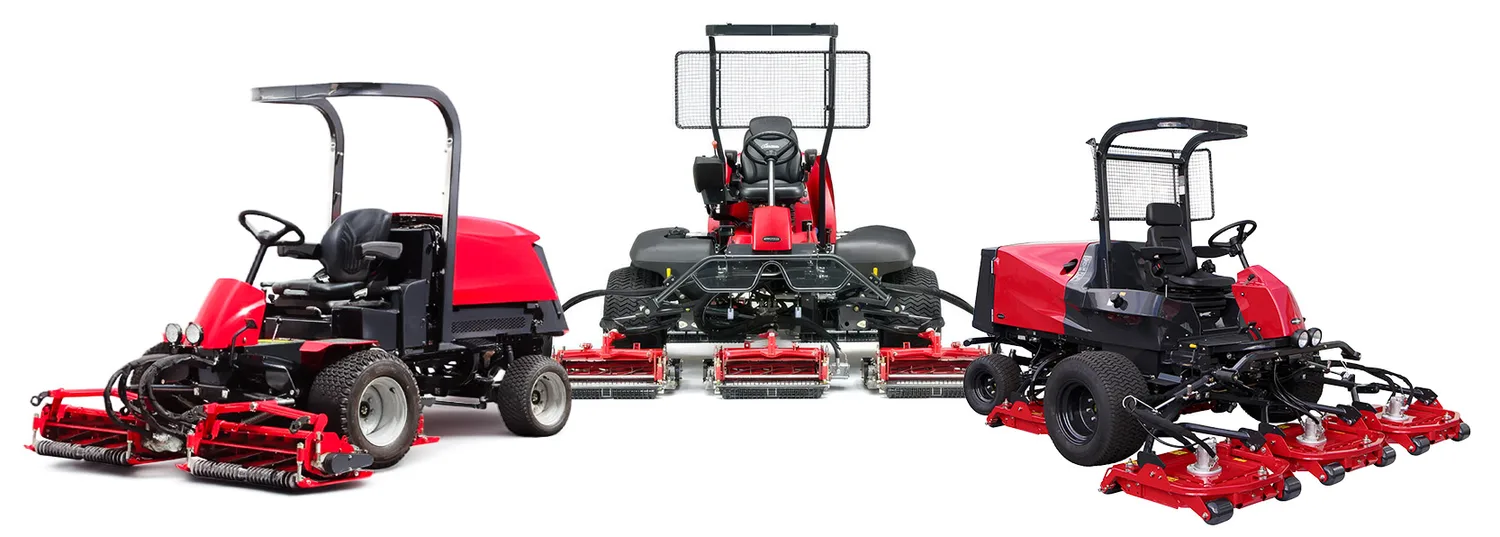
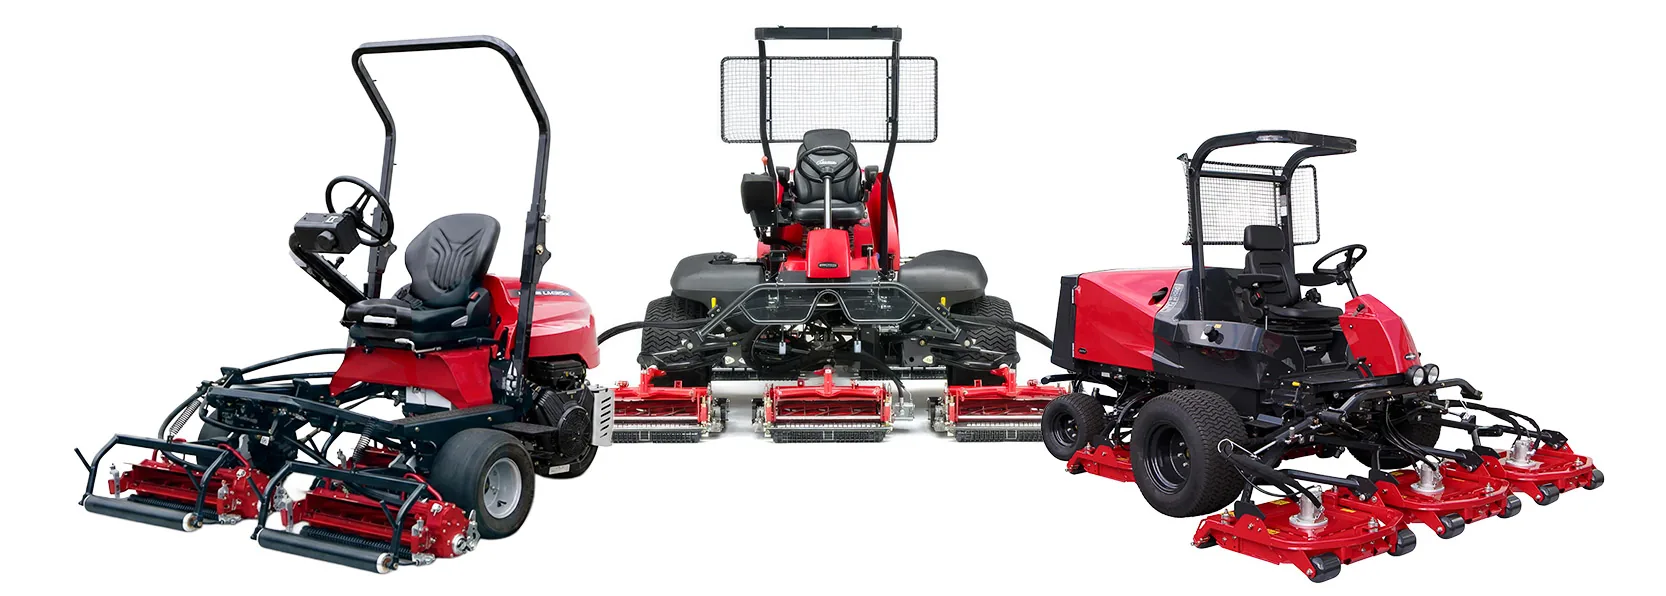
updating site - John's edits

diff --git a/index.html b/index.html
@@ -163,7 +163,6 @@
     text-transform: uppercase; letter-spacing: 0.2em; margin-bottom: 2rem;
     opacity: 0; animation: fadeUp 0.8s 0.3s forwards;
   }
-  .hero-tag::before { content: ''; width: 24px; height: 1px; background: var(--gold-accent); }
   .hero-headline {
     font-size: clamp(3rem, 7vw, 6.5rem); color: white; max-width: 900px;
     margin-bottom: 1.5rem; opacity: 0; animation: fadeUp 0.8s 0.5s forwards;
@@ -171,7 +170,7 @@
   .hero-headline em { font-style: normal; color: var(--baroness-red); }
   .hero-sub {
     font-size: clamp(1rem, 2vw, 1.25rem); color: #ffffff;
-    max-width: 580px; line-height: 1.7; margin-bottom: 3rem; font-weight: 300;
+    max-width: 660px; line-height: 1.7; margin-bottom: 3rem; font-weight: 300;
     opacity: 0; animation: fadeUp 0.8s 0.7s forwards;
   }
   .hero-actions { display: flex; gap: 1rem; flex-wrap: wrap; opacity: 0; animation: fadeUp 0.8s 0.9s forwards; }
@@ -486,7 +485,7 @@
     .verticals-grid { grid-template-columns: 1fr !important; gap: 1.5rem !important; }
     .value-grid { gap: 1rem; }
     .hero { min-height: auto; padding-bottom: 3rem; }
-    .hero-stats-inner { flex-direction: column; gap: 1.25rem; align-items: center; }
+    .hero-stats-inner { flex-direction: column; gap: 1.25rem; align-items: flex-start; }
     .hero-stats-bar { padding: 2.25rem 2rem; }
     .form-row { grid-template-columns: 1fr; }
     .territory-list { flex-direction: column; align-items: center; gap: 1rem; }
@@ -556,10 +555,10 @@
   <div class="hero-grain"></div>
   <div class="hero-stripes"></div>
   <div class="hero-content">
-    <div class="hero-tag">Exclusive Baroness Distributor</div>
+    <div class="hero-tag">Exclusive Baroness Distributor — Southern California &amp; Las Vegas</div>
     <h1 class="hero-headline">The Cut Speaks<br>For <em>Itself.</em></h1>
     <p class="hero-sub">
-      Championship Baroness reels that make members notice — and you don't have to wait 18 months or overpay $25K to get them. We deliver in weeks, save you thousands, and train your mechanic personally.
+      Superior Baroness reels that make golfers notice — and you don't have to wait months or overpay thousands to get them. We deliver in weeks, save you money, and train your mechanic personally.
     </p>
     <div class="hero-actions">
       <a href="#contact" class="btn btn-primary">Schedule a Demo →</a>
@@ -601,7 +600,7 @@
         <h3 class="text-red">The Status Quo</h3>
         <div class="problem-item">
           <div class="problem-icon red">✕</div>
-          <p><strong>12–18 month delivery waits</strong> — the top competitor quotes over a year while your fairways deteriorate and members complain.</p>
+          <p><strong>12–18 month delivery waits</strong> — the top competitor quotes over a year while your turf conditions deteriorate and golfers complain.</p>
         </div>
         <div class="problem-item">
           <div class="problem-icon red">✕</div>
@@ -641,7 +640,7 @@
 
 <!-- PRODUCT BAND -->
 <section class="mower-band">
-  <img src="assets/img/mower-hero.webp" alt="Baroness greens, fairway, and rough mowers side by side" loading="lazy">
+  <img src="assets/img/mower-hero.webp" alt="Baroness LM315 greens mower, fairway, and rough mowers side by side" loading="lazy">
 </section>
 
 <!-- VALUE PROPOSITIONS -->
@@ -655,7 +654,7 @@
     <div class="value-card">
       <div class="value-card-num">01</div>
       <h4>Superior Cut Quality</h4>
-      <p>Handmade reels forged with Japanese precision steel. Longer edge retention, cleaner cut. Members notice the difference within days — often asking what changed after the first week.</p>
+      <p>Handmade reels forged with Japanese precision steel. Longer edge retention, cleaner cut. Golfers notice the difference within days — often asking what changed after the first week.</p>
     </div>
     <div class="value-card">
       <div class="value-card-num">02</div>
@@ -713,7 +712,7 @@
   <div class="outcome-grid reveal">
     <div class="outcome-content">
       <h2>A Better Mower Means <em>Better Grass</em>.<br>Better Grass Means <em>Better Golf</em>.<br>Better Golf Means <em>Happy Golfers</em>.</h2>
-      <p>Your members will notice the difference and thank you for investing in the course — while your board members will thank you for saving money.</p>
+      <p>Your golfers will notice the difference and thank you for investing in the course — while your board members will thank you for saving money.</p>
     </div>
     <div class="outcome-visual">
       <img src="assets/img/golfer-mower.webp" alt="Golfer mid-swing beside a Baroness fairway mower" loading="lazy">
@@ -768,7 +767,7 @@
           <div class="team-info">
             <h4>John Harkness</h4>
             <div class="team-role">Founder & Sales</div>
-            <p>40+ years in the turf industry. Knows every superintendent by name. Answers the phone on the second ring.</p>
+            <p>40+ years in the turf industry, including 25+ years as a superintendent at both public and private clubs — he understands the demands put on supers for quality course conditions. Answers the phone on the second ring.</p>
           </div>
         </div>
         <div class="team-card">
@@ -776,7 +775,7 @@
           <div class="team-info">
             <h4>Lionel Guzman</h4>
             <div class="team-role">Service & Training</div>
-            <p>Former mechanic and service manager at the top competitor's distributor. Spends 2–3 hours training your team on every delivery — mechanic to mechanic.</p>
+            <p>Former superintendent who owned his own aerification company and served as mechanic at a top Southern California private club. Spends 2–3 hours training your team on every delivery — mechanic to mechanic.</p>
           </div>
         </div>
       </div>
@@ -799,7 +798,7 @@
 <path d="M47.9,22.7 L303,22.7 L664.2,22.7 L664.2,400.4 L966.7,400.4 L966.7,828.7 L844.2,828.7 L617.6,741.1 L477,738 L465.5,672.3 L400.6,646.6 L347.3,606.6 L274.5,593 L264.2,583.2 L189.1,452.5 L156.4,341.4 L121.2,302.2 L77.6,256.1 L54.5,166.2 L35.8,140.5 L50.9,87.6 L47.9,22.7 Z" fill="#2b2f33" stroke="#474d54" stroke-width="1.4" stroke-linejoin="round"/>
 <path d="M303,22.7 L303,249.3 L628.5,551.4" fill="none" stroke="#3a4046" stroke-width="1.1"/><path d="M628.5,551.4 L628.5,551.4 L628.5,561.3 L638.2,573.4 L658.2,604.3 L651.5,614.1 L636.4,661 L635.2,700.3 L623,724.4" fill="none" stroke="#3a4046" stroke-width="1.1"/><path d="M628.5,551.4 L664.2,461.6 L664.2,400.4 L966.7,400.4" fill="none" stroke="#3a4046" stroke-width="1.1"/>
 <text x="321.2" y="362.6" text-anchor="middle" font-family="'Oswald',sans-serif" font-size="16" letter-spacing="2" fill="#ffffff" opacity="0.16">CALIFORNIA</text><text x="521.2" y="294.6" text-anchor="middle" font-family="'Oswald',sans-serif" font-size="16" letter-spacing="2" fill="#ffffff" opacity="0.16">NEVADA</text><text x="775.8" y="642.1" text-anchor="middle" font-family="'Oswald',sans-serif" font-size="16" letter-spacing="2" fill="#ffffff" opacity="0.16">ARIZONA</text>
-<g><circle class="dot" data-name="Alisal Guest Ranch and Resort" cx="292.7" cy="578" r="3.6" fill="#C41E2A"/><circle class="dot" data-name="Anaheim Hills Golf Course" cx="437.2" cy="638" r="3.6" fill="#C41E2A"/><circle class="dot" data-name="Arizona Country Club" cx="788.6" cy="665.1" r="3.6" fill="#C41E2A"/><circle class="dot" data-name="Arroyo Trabuco Golf Club" cx="445.9" cy="656.1" r="3.6" fill="#C41E2A"/><circle class="dot" data-name="Aviara Golf Club" cx="467" cy="694.4" r="3.6" fill="#C41E2A"/><circle class="dot" data-name="Balboa Park Golf Course" cx="470.3" cy="717.9" r="3.6" fill="#C41E2A"/><circle class="dot" data-name="Bear Creek Golf Club" cx="468.3" cy="660" r="3.6" fill="#C41E2A"/><circle class="dot" data-name="Bear Valley Springs Association" cx="397" cy="541.5" r="3.6" fill="#C41E2A"/><circle class="dot" data-name="Bermuda Dunes Country Club" cx="529.2" cy="645.6" r="3.6" fill="#C41E2A"/><circle class="dot" data-name="Big Canyon Country Club" cx="432.2" cy="655" r="3.6" fill="#C41E2A"/><circle class="dot" data-name="Bishop Country Club" cx="399.7" cy="362.5" r="3.6" fill="#C41E2A"/><circle class="dot" data-name="Calabasas Country Club" cx="384" cy="616.3" r="3.6" fill="#C41E2A"/><circle class="dot" data-name="California Baptist University " cx="468.3" cy="660" r="3.6" fill="#C41E2A"/><circle class="dot" data-name="California State University Fullerton" cx="430.5" cy="636.3" r="3.6" fill="#C41E2A"/><circle class="dot" data-name="Canyon Crest Country Club" cx="462.1" cy="631.1" r="3.6" fill="#C41E2A"/><circle class="dot" data-name="Canyon Lake Golf &amp; Country Club" cx="468.3" cy="660" r="3.6" fill="#C41E2A"/><circle class="dot" data-name="Cathedral Canyon Golf Club" cx="517.2" cy="641.4" r="3.6" fill="#C41E2A"/><circle class="dot" data-name="City of Carson" cx="408" cy="640.4" r="3.6" fill="#C41E2A"/><circle class="dot" data-name="Coyote Springs Golf Club" cx="627.2" cy="423.7" r="3.6" fill="#C41E2A"/><circle class="dot" data-name="Desert Falls Country Club" cx="524.9" cy="644.8" r="3.6" fill="#C41E2A"/><circle class="dot" data-name="Dove Canyon Country Club" cx="449.1" cy="652.5" r="3.6" fill="#C41E2A"/><circle class="dot" data-name="Eagle Glen Golf Club " cx="456.1" cy="645.6" r="3.6" fill="#C41E2A"/><circle class="dot" data-name="El Camino Country Club" cx="467.7" cy="687.7" r="3.6" fill="#C41E2A"/><circle class="dot" data-name="El Niguel Country Club" cx="441.9" cy="663.7" r="3.6" fill="#C41E2A"/><circle class="dot" data-name="Encinitas Ranch Golf Course" cx="468.6" cy="698.5" r="3.6" fill="#C41E2A"/><circle class="dot" data-name="Friendly Hills Country Club" cx="422.1" cy="631.4" r="3.6" fill="#C41E2A"/><circle class="dot" data-name="Glen Ivy Golf Club" cx="480.7" cy="702" r="3.6" fill="#C41E2A"/><circle class="dot" data-name="Glendora Country Club " cx="433.7" cy="615.4" r="3.6" fill="#C41E2A"/><circle class="dot" data-name="Goose Creek Golf Club" cx="453.1" cy="627.5" r="3.6" fill="#C41E2A"/><circle class="dot" data-name="Date Palm Country Club" cx="517.2" cy="641.4" r="3.6" fill="#C41E2A"/><circle class="dot" data-name="Reflection Bay" cx="608.4" cy="466.4" r="3.6" fill="#C41E2A"/><circle class="dot" data-name="Industry Hills Golf Club" cx="428" cy="624.8" r="3.6" fill="#C41E2A"/><circle class="dot" data-name="Las Posas Country Club" cx="360.8" cy="609.5" r="3.6" fill="#C41E2A"/><circle class="dot" data-name="Links at  Riverlakes Ranch Golf Course" cx="356.3" cy="521.7" r="3.6" fill="#C41E2A"/><circle class="dot" data-name="Los Amigos Golf Course" cx="415.8" cy="632.9" r="3.6" fill="#C41E2A"/><circle class="dot" data-name="Los Robles Greens Golf Course" cx="373.4" cy="615.9" r="3.6" fill="#C41E2A"/><circle class="dot" data-name="Los Serranos Golf Club" cx="440.6" cy="628.5" r="3.6" fill="#C41E2A"/><circle class="dot" data-name="Marbella Country Club" cx="445.1" cy="664.1" r="3.6" fill="#C41E2A"/><circle class="dot" data-name="Mesa Verde Country Club" cx="429.8" cy="651.2" r="3.6" fill="#C41E2A"/><circle class="dot" data-name="Monterey Country Club" cx="522.6" cy="648" r="3.6" fill="#C41E2A"/><circle class="dot" data-name="Mountain Gate Country Club" cx="395.5" cy="622" r="3.6" fill="#C41E2A"/><circle class="dot" data-name="Murrieta Valley Golf Range" cx="468.3" cy="660" r="3.6" fill="#C41E2A"/><circle class="dot" data-name="Oak Valley Golf Club" cx="484.8" cy="633.3" r="3.6" fill="#C41E2A"/><circle class="dot" data-name="Palm Valley Country Club" cx="524.9" cy="644.8" r="3.6" fill="#C41E2A"/><circle class="dot" data-name="Palos Verdes Country Club" cx="401.2" cy="644.6" r="3.6" fill="#C41E2A"/><circle class="dot" data-name="Pauma Valley Country Club " cx="487.3" cy="679.4" r="3.6" fill="#C41E2A"/><circle class="dot" data-name="Pechanga" cx="479" cy="664.9" r="3.6" fill="#C41E2A"/><circle class="dot" data-name="Pelican Hills Golf Club" cx="434.3" cy="657.6" r="3.6" fill="#C41E2A"/><circle class="dot" data-name="PGA West - Mountain Course" cx="526.8" cy="652" r="3.6" fill="#C41E2A"/><circle class="dot" data-name="PGA West - Stadium Course" cx="526.8" cy="652" r="3.6" fill="#C41E2A"/><circle class="dot" data-name="PGA West - Tournament Course" cx="526.8" cy="652" r="3.6" fill="#C41E2A"/><circle class="dot" data-name="PGA WEST Private Golf Courses" cx="526.8" cy="652" r="3.6" fill="#C41E2A"/><circle class="dot" data-name="Rancho San Joaquin Golf Course" cx="434.8" cy="652.6" r="3.6" fill="#C41E2A"/><circle class="dot" data-name="Redlands Country Club" cx="473.9" cy="624" r="3.6" fill="#C41E2A"/><circle class="dot" data-name="Rio Hondo Golf Club " cx="416.3" cy="631.4" r="3.6" fill="#C41E2A"/><circle class="dot" data-name="San Clemente Municipal Golf Course" cx="447.1" cy="669.6" r="3.6" fill="#C41E2A"/><circle class="dot" data-name="San Diego Country Club" cx="481.4" cy="732.1" r="3.6" fill="#C41E2A"/><circle class="dot" data-name="Santa Ana Country Club" cx="432.1" cy="649" r="3.6" fill="#C41E2A"/><circle class="dot" data-name="Sherwood Lake Club" cx="373.4" cy="615.9" r="3.6" fill="#C41E2A"/><circle class="dot" data-name="Sierra  Lakes Golf Club" cx="458.3" cy="618.1" r="3.6" fill="#C41E2A"/><circle class="dot" data-name="Silver Lakes" cx="464.4" cy="570.3" r="3.6" fill="#C41E2A"/><circle class="dot" data-name="Soboba Casino Resort" cx="488.9" cy="642.3" r="3.6" fill="#C41E2A"/><circle class="dot" data-name="Southgate Golf Club" cx="691.9" cy="392.5" r="3.6" fill="#C41E2A"/><circle class="dot" data-name="Southwestern College" cx="480.8" cy="729.9" r="3.6" fill="#C41E2A"/><circle class="dot" data-name="Steele Canyon Golf Club" cx="495" cy="724" r="3.6" fill="#C41E2A"/><circle class="dot" data-name="Strato Partners LLC" cx="422.6" cy="617" r="3.6" fill="#C41E2A"/><circle class="dot" data-name="Sunset Hills Country Club" cx="371.3" cy="611.2" r="3.6" fill="#C41E2A"/><circle class="dot" data-name="The Citrus Club" cx="526.8" cy="652" r="3.6" fill="#C41E2A"/><circle class="dot" data-name="The Crossings at Carlsbad" cx="465.2" cy="690.4" r="3.6" fill="#C41E2A"/><circle class="dot" data-name="The Huntington Club" cx="423.9" cy="651.4" r="3.6" fill="#C41E2A"/><circle class="dot" data-name="The Los Angeles Country Club" cx="397.5" cy="622.2" r="3.6" fill="#C41E2A"/><circle class="dot" data-name="The Riviera Country Club" cx="392.3" cy="623.4" r="3.6" fill="#C41E2A"/><circle class="dot" data-name="The Welk" cx="478.9" cy="690.4" r="3.6" fill="#C41E2A"/><circle class="dot" data-name="Trinity Equipment" cx="467.4" cy="624.6" r="3.6" fill="#C41E2A"/><circle class="dot" data-name="Twin Oaks Golf Course" cx="474.6" cy="691.6" r="3.6" fill="#C41E2A"/><circle class="dot" data-name="Victoria Country Club" cx="462.1" cy="631.1" r="3.6" fill="#C41E2A"/><circle class="dot" data-name="Wood Ranch Golf Club" cx="377.9" cy="606.9" r="3.6" fill="#C41E2A"/><circle class="dot" data-name="Yorba Linda Country Club" cx="437.2" cy="634.1" r="3.6" fill="#C41E2A"/></g>
+<g><circle class="dot" data-name="Alisal Guest Ranch and Resort" cx="292.7" cy="578" r="3.6" fill="#C41E2A"/><circle class="dot" data-name="Anaheim Hills Golf Course" cx="437.2" cy="638" r="3.6" fill="#C41E2A"/><circle class="dot" data-name="Arizona Country Club" cx="788.6" cy="665.1" r="3.6" fill="#C41E2A"/><circle class="dot" data-name="Arroyo Trabuco Golf Club" cx="445.9" cy="656.1" r="3.6" fill="#C41E2A"/><circle class="dot" data-name="Aviara Golf Club" cx="467" cy="694.4" r="3.6" fill="#C41E2A"/><circle class="dot" data-name="Balboa Park Golf Course" cx="470.3" cy="717.9" r="3.6" fill="#C41E2A"/><circle class="dot" data-name="Bear Creek Golf Club" cx="468.3" cy="660" r="3.6" fill="#C41E2A"/><circle class="dot" data-name="Bear Valley Springs Association" cx="397" cy="541.5" r="3.6" fill="#C41E2A"/><circle class="dot" data-name="Bermuda Dunes Country Club" cx="529.2" cy="645.6" r="3.6" fill="#C41E2A"/><circle class="dot" data-name="Big Canyon Country Club" cx="432.2" cy="655" r="3.6" fill="#C41E2A"/><circle class="dot" data-name="Bishop Country Club" cx="399.7" cy="362.5" r="3.6" fill="#C41E2A"/><circle class="dot" data-name="Calabasas Country Club" cx="384" cy="616.3" r="3.6" fill="#C41E2A"/><circle class="dot" data-name="California Baptist University " cx="468.3" cy="660" r="3.6" fill="#C41E2A"/><circle class="dot" data-name="California State University Fullerton" cx="430.5" cy="636.3" r="3.6" fill="#C41E2A"/><circle class="dot" data-name="Canyon Crest Country Club" cx="462.1" cy="631.1" r="3.6" fill="#C41E2A"/><circle class="dot" data-name="Canyon Lake Golf &amp; Country Club" cx="468.3" cy="660" r="3.6" fill="#C41E2A"/><circle class="dot" data-name="Cathedral Canyon Golf Club" cx="517.2" cy="641.4" r="3.6" fill="#C41E2A"/><circle class="dot" data-name="City of Carson" cx="408" cy="640.4" r="3.6" fill="#C41E2A"/><circle class="dot" data-name="Coyote Springs Golf Club" cx="627.2" cy="423.7" r="3.6" fill="#C41E2A"/><circle class="dot" data-name="Desert Falls Country Club" cx="524.9" cy="644.8" r="3.6" fill="#C41E2A"/><circle class="dot" data-name="Dove Canyon Country Club" cx="449.1" cy="652.5" r="3.6" fill="#C41E2A"/><circle class="dot" data-name="Eagle Glen Golf Club " cx="456.1" cy="645.6" r="3.6" fill="#C41E2A"/><circle class="dot" data-name="El Camino Country Club" cx="467.7" cy="687.7" r="3.6" fill="#C41E2A"/><circle class="dot" data-name="El Niguel Country Club" cx="441.9" cy="663.7" r="3.6" fill="#C41E2A"/><circle class="dot" data-name="Encinitas Ranch Golf Course" cx="468.6" cy="698.5" r="3.6" fill="#C41E2A"/><circle class="dot" data-name="Friendly Hills Country Club" cx="422.1" cy="631.4" r="3.6" fill="#C41E2A"/><circle class="dot" data-name="Glen Ivy Golf Club" cx="480.7" cy="702" r="3.6" fill="#C41E2A"/><circle class="dot" data-name="Glendora Country Club " cx="433.7" cy="615.4" r="3.6" fill="#C41E2A"/><circle class="dot" data-name="Goose Creek Golf Club" cx="453.1" cy="627.5" r="3.6" fill="#C41E2A"/><circle class="dot" data-name="Date Palm Country Club" cx="517.2" cy="641.4" r="3.6" fill="#C41E2A"/><circle class="dot" data-name="Reflection Bay" cx="608.4" cy="466.4" r="3.6" fill="#C41E2A"/><circle class="dot" data-name="Industry Hills Golf Club" cx="428" cy="624.8" r="3.6" fill="#C41E2A"/><circle class="dot" data-name="Las Posas Country Club" cx="360.8" cy="609.5" r="3.6" fill="#C41E2A"/><circle class="dot" data-name="Links at  Riverlakes Ranch Golf Course" cx="356.3" cy="521.7" r="3.6" fill="#C41E2A"/><circle class="dot" data-name="Los Amigos Golf Course" cx="415.8" cy="632.9" r="3.6" fill="#C41E2A"/><circle class="dot" data-name="Los Robles Greens Golf Course" cx="373.4" cy="615.9" r="3.6" fill="#C41E2A"/><circle class="dot" data-name="Los Serranos Golf Club" cx="440.6" cy="628.5" r="3.6" fill="#C41E2A"/><circle class="dot" data-name="Marbella Country Club" cx="445.1" cy="664.1" r="3.6" fill="#C41E2A"/><circle class="dot" data-name="Mesa Verde Country Club" cx="429.8" cy="651.2" r="3.6" fill="#C41E2A"/><circle class="dot" data-name="Monterey Country Club" cx="522.6" cy="648" r="3.6" fill="#C41E2A"/><circle class="dot" data-name="Mountain Gate Country Club" cx="395.5" cy="622" r="3.6" fill="#C41E2A"/><circle class="dot" data-name="Murrieta Valley Golf Range" cx="468.3" cy="660" r="3.6" fill="#C41E2A"/><circle class="dot" data-name="Oak Valley Golf Club" cx="484.8" cy="633.3" r="3.6" fill="#C41E2A"/><circle class="dot" data-name="Palm Valley Country Club" cx="524.9" cy="644.8" r="3.6" fill="#C41E2A"/><circle class="dot" data-name="Palos Verdes Country Club" cx="401.2" cy="644.6" r="3.6" fill="#C41E2A"/><circle class="dot" data-name="Pauma Valley Country Club " cx="487.3" cy="679.4" r="3.6" fill="#C41E2A"/><circle class="dot" data-name="Pechanga" cx="479" cy="664.9" r="3.6" fill="#C41E2A"/><circle class="dot" data-name="Pelican Hills Golf Club" cx="434.3" cy="657.6" r="3.6" fill="#C41E2A"/><circle class="dot" data-name="PGA West - Mountain Course" cx="526.8" cy="652" r="3.6" fill="#C41E2A"/><circle class="dot" data-name="PGA West - Stadium Course" cx="526.8" cy="652" r="3.6" fill="#C41E2A"/><circle class="dot" data-name="PGA West - Tournament Course" cx="526.8" cy="652" r="3.6" fill="#C41E2A"/><circle class="dot" data-name="PGA WEST Private Golf Courses" cx="526.8" cy="652" r="3.6" fill="#C41E2A"/><circle class="dot" data-name="Rancho San Joaquin Golf Course" cx="434.8" cy="652.6" r="3.6" fill="#C41E2A"/><circle class="dot" data-name="Redlands Country Club" cx="473.9" cy="624" r="3.6" fill="#C41E2A"/><circle class="dot" data-name="Rio Hondo Golf Club " cx="416.3" cy="631.4" r="3.6" fill="#C41E2A"/><circle class="dot" data-name="San Clemente Municipal Golf Course" cx="447.1" cy="669.6" r="3.6" fill="#C41E2A"/><circle class="dot" data-name="San Diego Country Club" cx="481.4" cy="732.1" r="3.6" fill="#C41E2A"/><circle class="dot" data-name="Santa Ana Country Club" cx="432.1" cy="649" r="3.6" fill="#C41E2A"/><circle class="dot" data-name="Sherwood Lake Club" cx="373.4" cy="615.9" r="3.6" fill="#C41E2A"/><circle class="dot" data-name="Sierra  Lakes Golf Club" cx="458.3" cy="618.1" r="3.6" fill="#C41E2A"/><circle class="dot" data-name="Silver Lakes" cx="464.4" cy="570.3" r="3.6" fill="#C41E2A"/><circle class="dot" data-name="Soboba Casino Resort" cx="488.9" cy="642.3" r="3.6" fill="#C41E2A"/><circle class="dot" data-name="Southgate Golf Club" cx="691.9" cy="392.5" r="3.6" fill="#C41E2A"/><circle class="dot" data-name="Southwestern College" cx="480.8" cy="729.9" r="3.6" fill="#C41E2A"/><circle class="dot" data-name="Steele Canyon Golf Club" cx="495" cy="724" r="3.6" fill="#C41E2A"/><circle class="dot" data-name="Strato Partners LLC" cx="422.6" cy="617" r="3.6" fill="#C41E2A"/><circle class="dot" data-name="Sunset Hills Country Club" cx="371.3" cy="611.2" r="3.6" fill="#C41E2A"/><circle class="dot" data-name="PGA West" cx="526.8" cy="652" r="3.6" fill="#C41E2A"/><circle class="dot" data-name="The Crossings at Carlsbad" cx="465.2" cy="690.4" r="3.6" fill="#C41E2A"/><circle class="dot" data-name="The Huntington Club" cx="423.9" cy="651.4" r="3.6" fill="#C41E2A"/><circle class="dot" data-name="The Los Angeles Country Club" cx="397.5" cy="622.2" r="3.6" fill="#C41E2A"/><circle class="dot" data-name="The Riviera Country Club" cx="392.3" cy="623.4" r="3.6" fill="#C41E2A"/><circle class="dot" data-name="The Welk" cx="478.9" cy="690.4" r="3.6" fill="#C41E2A"/><circle class="dot" data-name="Trinity Equipment" cx="467.4" cy="624.6" r="3.6" fill="#C41E2A"/><circle class="dot" data-name="Twin Oaks Golf Course" cx="474.6" cy="691.6" r="3.6" fill="#C41E2A"/><circle class="dot" data-name="Victoria Country Club" cx="462.1" cy="631.1" r="3.6" fill="#C41E2A"/><circle class="dot" data-name="Wood Ranch Golf Club" cx="377.9" cy="606.9" r="3.6" fill="#C41E2A"/><circle class="dot" data-name="Yorba Linda Country Club" cx="437.2" cy="634.1" r="3.6" fill="#C41E2A"/></g>
 </svg>
       </div>
       <div class="map-tip" id="mapTip"></div>
@@ -947,7 +946,7 @@
       <div class="product-details">
         <h3>Triplex Greens Mower</h3>
         <div class="product-model">Baroness LM315</div>
-        <p>The machine that makes members notice. Handmade reels with Japanese precision-forged steel deliver a cut quality that competitors haven't been able to match in 30 years.</p>
+        <p>The machine that makes golfers notice. Handmade reels with Japanese precision-forged steel deliver a cut quality that competitors haven't been able to match in 30 years.</p>
         <ul class="product-specs">
           <li><span>Platform</span><strong>Unchanged 30 years</strong></li>
           <li><span>Reel Type</span><strong>Handmade, precision-forged</strong></li>
@@ -1022,7 +1021,7 @@
 
   <!-- Coming Soon -->
   <div class="products-coming-soon">
-    <p><strong>More equipment coming soon</strong> — ATP is expanding beyond core mowing equipment to include golf carts and additional Baroness product lines. Stay tuned, or <a href="#contact" onclick="showPage('home', this.getAttribute('href')); return false;" style="color: var(--baroness-red); font-weight: 600; text-decoration: none;">contact us</a> to learn what's next.</p>
+    <p><strong>More equipment coming soon</strong> — ATP is expanding beyond core mowing equipment to include utility vehicles and additional Baroness product lines. Stay tuned, or <a href="#contact" onclick="showPage('home', this.getAttribute('href')); return false;" style="color: var(--baroness-red); font-weight: 600; text-decoration: none;">contact us</a> to learn what's next.</p>
   </div>
 
   <!-- Secondary Verticals Callout -->